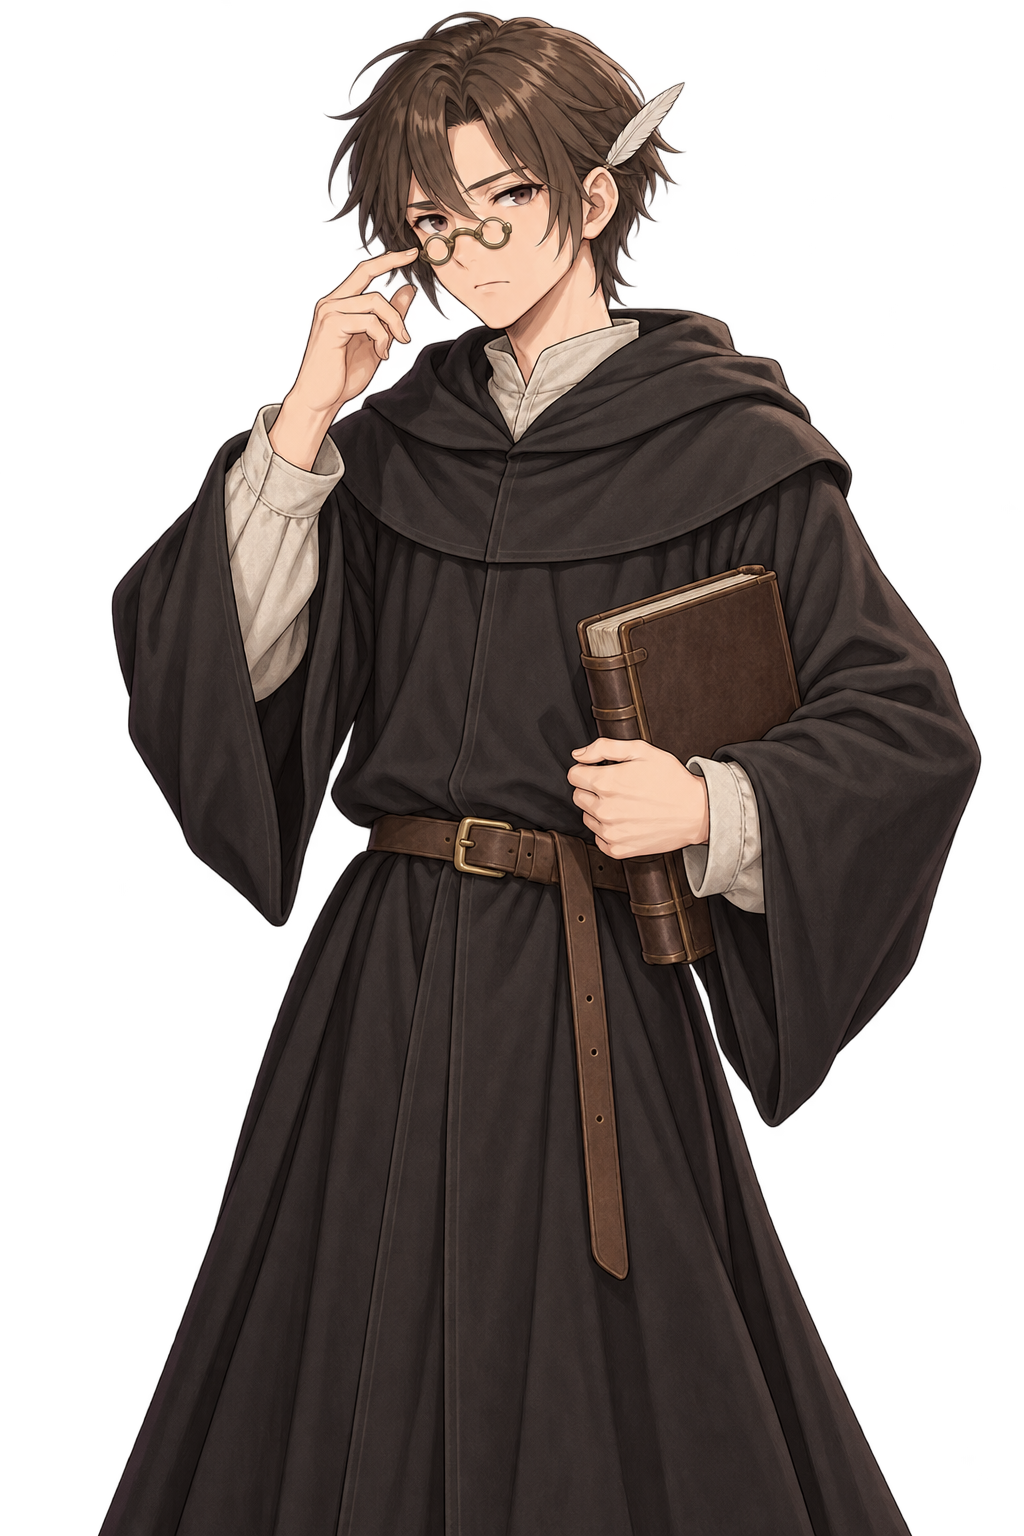
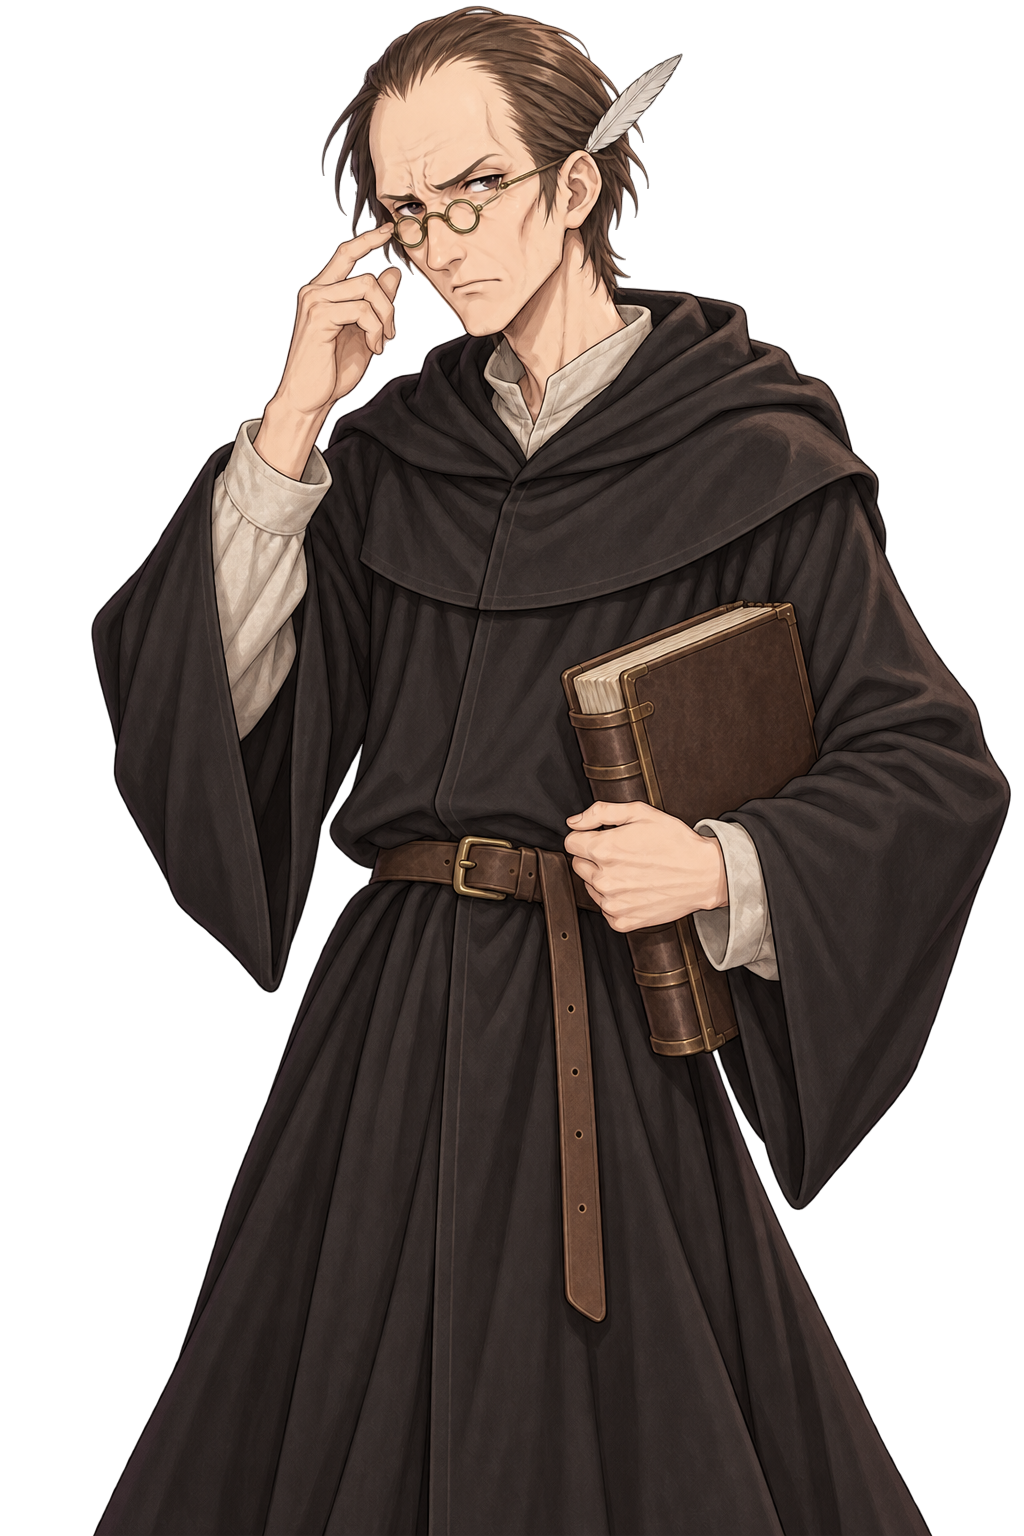
Art: S17 redo 2 for Martha/Basil - friendly NPCs attractive even when older; no glasses on Martha

diff --git a/art/AGENTS.md b/art/AGENTS.md
@@ -80,7 +80,7 @@
 | 2026-10-16 · 전투 방식 변경 | **전투는 사이드뷰 대치(포 더 킹식)다.** 동료는 화면 왼쪽에서 오른쪽을 보고(3/4 오른쪽, 지금 SD 규격 그대로), 적은 오른쪽에서 왼쪽을 본다(enemy_sd). 칸 이동 맵은 쓰지 않으니 위에서 내려다보는 전투 배경은 더 만들지 않는다. 스킬 아이콘은 Claude 담당 |
 | 2026-10-16 · S15 | **잡몹(E로 시작하는 적)은 투박하고 못생기게, 수수하게 그린다.** 채도 낮게, 장식·패치·벨트 최소, 명암 단순, 얼굴은 험상궂거나 우스꽝스럽게(미남·미녀 금지). 실루엣과 무기만 또렷하게. 잡몹은 대기(idle) 1장만 만들고 공격·피격은 게임 연출로 한다. 보스(B)는 화려하게 그려도 된다. 잘생긴 빌런은 사용자가 따로 말할 때만. **추가(같은 날): 더 투박하게, 보스도 똑같이 못생기고 투박하게** (주먹코, 작은 눈, 삐뚤어진 이, 땅딸막한 체형, 때 묻은 옷, 거친 칠) |
 | 2026-10-16 · S16 | **전투 무대 소품(항아리, 통, 고목, 바리케이드, 탁자, 샹들리에, 덤불)은 Codex가 `prop` 형식으로 그린다.** Claude가 코드 도형으로 그린 소품이 배경과 너무 안 어울렸다. 배경과 같은 화풍·색·빛으로, 소품 하나만 마젠타 배경에 그려 투명 512×512로 만든다(SD 후처리와 같다). 부서진 모습은 게임이 연출하니 멀쩡한 모습 1장만. 전투 배경(bg_battle)에는 여전히 상호작용 소품을 그리지 않는다. **도적·잡몹의 장소에는 깃발·문장·십자가 같은 기사단·교회 표시를 넣지 않는다** (십자가는 교회 세력으로 읽힌다). **같은 지형의 전투 배경끼리는 밝기·답답함·구도로 확실히 다르게** (매복이 공터와 똑같이 나왔다). **참조 그림은 구도까지 따라간다**: 같은 건물의 다른 방은 대회관 그림을 참조로 붙이지 말고 재질만 글로 적는다(기록실이 대회관 구도로 나왔다). 지도는 `flat 2D parchment, NOT a 3D render` 를 꼭 쓴다 |
-| 2026-10-16 · S17 | **NPC는 설정 나이를 얼굴에 드러낸다.** 40대 마르타가 20대로, 30대 깐깐한 바실이 꽃미남 청년으로 나왔다. 화풍이 젊게 끌고 가므로 중년 이상은 주름·흰머리·얼굴형·체형을 프롬프트에 구체적으로 적고 `NOT a young girl / NOT a handsome young man` 을 붙인다. 동료 외의 인물은 예쁘거나 잘생기게 그리지 않는다 (동료 후보로 착각하지 않게) |
+| 2026-10-16 · S17 | **NPC는 설정 나이를 얼굴에 드러낸다.** 40대 마르타가 20대로, 30대 깐깐한 바실이 꽃미남 청년으로 나왔다. 화풍이 젊게 끌고 가므로 중년 이상은 주름·흰머리·얼굴형·체형을 프롬프트에 구체적으로 적고 `NOT a young girl / NOT a handsome young man` 을 붙인다. **마을·우호 NPC는 나이가 들어 보여도 어느 정도 미형으로 그린다** (2026-10-16 사용자 지시: 단정하고 호감 가는 얼굴, 중년의 멋). 못생기고 투박하게는 적(E·B)만 |
 
 ## 저장소 관리
 

diff --git a/art/characters.md b/art/characters.md
@@ -144,8 +144,8 @@ S09 일상복 시트에 설정에 없는 지팡이가 들어가고(Codex가 "정
 
 | ID | 이름 | 역할 | PROMPT |
 |---|---|---|---|
-| N01 | 마르타 (Martha) | 선술집 주인, 길드의 오랜 이웃 | `Martha, a plump cheerful tavern keeper in her mid 40s, clearly middle-aged (round face, smile lines, crow's feet, a few grey strands), rolled-up sleeves, apron, auburn hair in a bun` |
-| N02 | 공증인 바실 (Basil) | 길드 재건 서류를 관리하는 공증인 | `Basil, a thin fussy notary in his late 30s, gaunt face, sunken cheeks, long pointed nose, receding thin slicked-back hair, frown line, hunched narrow shoulders, plain and unattractive, black scholar's robe, quill behind ear, spectacles, ledger under arm` |
+| N01 | 마르타 (Martha) | 선술집 주인, 길드의 오랜 이웃 | `Martha, a plump cheerful tavern keeper in her mid 40s, clearly middle-aged but still pretty (soft round face, gentle smile lines and crow's feet, a few grey strands), rolled-up sleeves, apron, auburn hair in a bun` |
+| N02 | 공증인 바실 (Basil) | 길드 재건 서류를 관리하는 공증인 | `Basil, a thin fussy notary in his late 30s, lean refined face with sharp cheekbones, neat slicked-back hair with a slightly high forehead, a fussy frown line, narrow shoulders, still good-looking in a mature way, black scholar's robe, quill behind ear, spectacles, ledger under arm` |
 | N03 | 영주 오스왈드 (Oswald) | 지역 영주, 속을 알 수 없다 | `Lord Oswald, a stately nobleman in his 50s, fur-lined mantle, gold chain of office, neatly trimmed beard` |
 | N04 | 주교 엘리노어 (Eleanor) | 수도원과 교회의 권력자 | `Bishop Eleanor, an elderly stern woman, white and gold vestments, mitre, crozier` |
 | N06 | 가면의 남자 | 흑막 | `a mysterious masked figure, plain white porcelain mask, black hooded cloak, faceless and unsettling` |

diff --git a/art/steps/S17.md b/art/steps/S17.md
@@ -56,3 +56,5 @@
 2026-10-16 · N01 마르타 3장 재작업: 설정은 40대 푸근한 선술집 주인인데 20대 얼굴로 나왔다. 둥근 얼굴, 눈가·입가 주름, 쪽 찐 머리에 흰머리 몇 가닥, 지친 듯 따뜻한 눈. 소녀 얼굴 금지.
 2026-10-16 · N02 바실 3장 재작업: 설정은 30대 깐깐한 공증인인데 꽃미남 청년으로 나왔다. 홀쭉한 얼굴, 꺼진 볼, 길고 뾰족한 코, 넘긴 가는 머리와 벗어지는 이마, 미간 주름, 굽은 좁은 어깨. 잘생기게 그리지 않는다.
 - 기본(neutral)을 새로 그리고, positive/negative 는 새 기본에서 얼굴 마스크만 편집. 옷·소품·구도는 이전본(art/raw/*_rejected_v1.png)을 따른다.
+2026-10-16 · 추가 지시: 마을·우호 NPC는 나이 들어 보여도 어느 정도 미형으로. 바실은 '못생기게'가 아니라 '깐깐해 보이는 단정한 30대 후반 미남', 마르타는 '예쁜 40대'.
+2026-10-16 · 재작업2 (6장): 재작업1은 미형 규칙 전에 시작해 바실이 50대처럼 늙고 깡마르게, 마르타는 설정에 없는 **안경**이 생겼다(바실의 안경이 섞임). 마르타: 예쁜 40대 초반, 안경 없음. 바실: 단정한 30대 후반 미남, 작은 둥근 안경. 옷·소품·구도는 첫 시안(art/raw/*_rejected_v1.png) 그대로.
